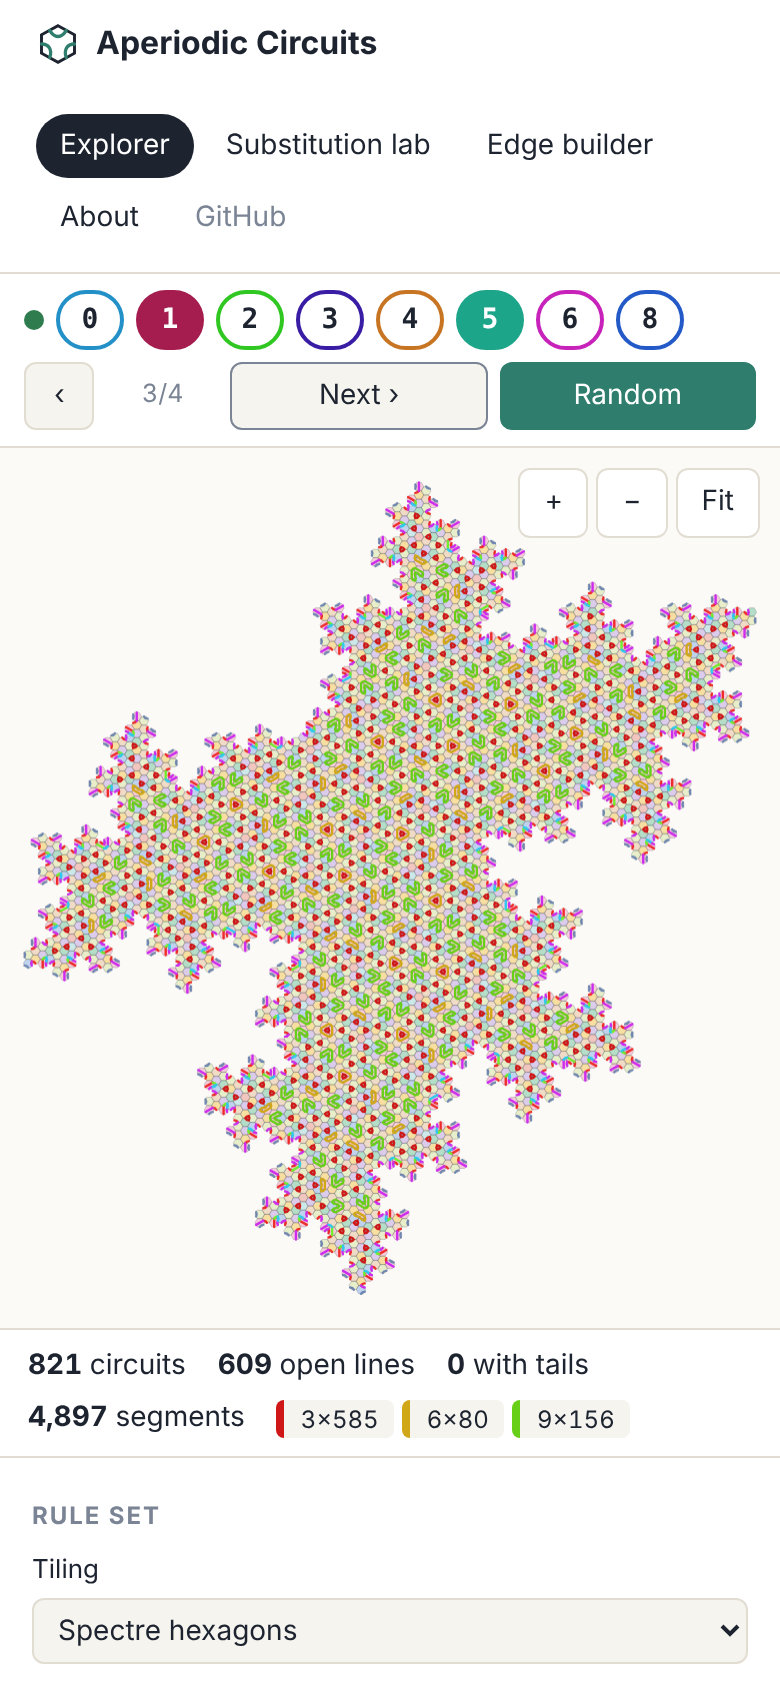
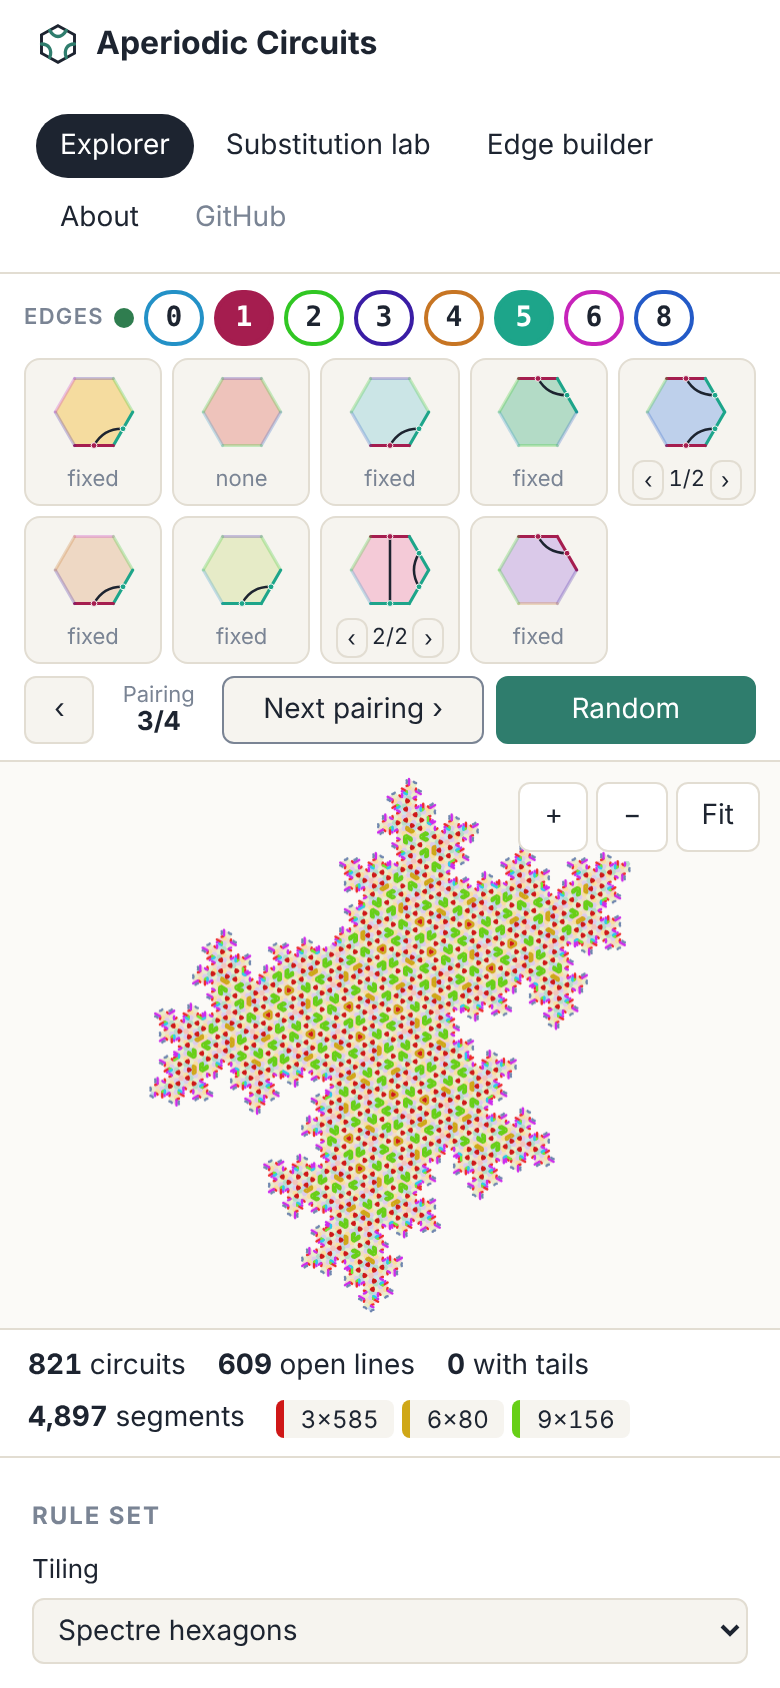
Explorer quick controls: show each tile's pairing next to the field
The panel by the field now carries the tile glyphs with their current
pairing and a per-tile stepper, and the stepper through every pairing of
the picked edges is labelled "Next pairing" so it reads as iterating
pairings, not edges. Tiles and edge chips wrap so they all fit on a phone.
Pairing counters are 1-based in the sidebar too.

Claude-Session: https://claude.ai/code/session_019Kut1nXEUxCdTxLUuuboJS

Changed region(s): [[0.0308, 0.154, 0.9846, 0.8009], [0.0308, 0.4005, 0.0615, 0.4313]]

diff --git a/src/pages/ExplorerPage.tsx b/src/pages/ExplorerPage.tsx
@@ -253,12 +253,16 @@ export function ExplorerPage({ route }: Props) {
   const quick = (
     <QuickControls
       className={`quick quick-${ui}`}
+      tiling={tiling}
       ruleSet={ruleSet}
       classes={classes}
       selection={selection}
       onToggle={toggleClass}
       tailFree={isTailFree}
       oddTypes={circuits.oddTypes}
+      counts={counts}
+      combo={combo}
+      onStepTile={stepCombo}
       index={comboIndex}
       total={totalCombos}
       onRandom={randomCombo}
@@ -576,7 +580,7 @@ export function ExplorerPage({ route }: Props) {
                         ‹
                       </button>
                       <span>
-                        {(combo[q.id] ?? 0) % choices}/{choices}
+                        {((combo[q.id] ?? 0) % choices) + 1}/{choices}
                       </span>
                       <button type="button" onClick={() => stepCombo(q.id, 1)} aria-label={`Next pairing for ${q.name}`}>
                         ›
@@ -718,23 +722,32 @@ function describeChase(c: { steps: number; status: ChaseStatus }): string {
 
 interface QuickProps {
   readonly className: string;
+  readonly tiling: Tiling;
   readonly ruleSet: RuleSet;
   readonly classes: readonly number[];
   readonly selection: ReadonlySet<number>;
   readonly onToggle: (c: number) => void;
   readonly tailFree: boolean;
   readonly oddTypes: readonly string[];
+  readonly counts: Record<string, number>;
+  readonly combo: Record<string, number>;
+  readonly onStepTile: (type: string, d: number) => void;
   readonly index: number;
   readonly total: number;
   readonly onRandom: () => void;
   readonly onStep: (d: number) => void;
 }
 
-/** The edge picker and combination stepper, kept next to the field so you can watch it change. */
-function QuickControls({ className: cls, ruleSet, classes, selection, onToggle, tailFree, oddTypes, index, total, onRandom, onStep }: QuickProps) {
+/**
+ * The edge picker, each tile's pairing, and a stepper through every pairing
+ * of the picked edges, kept by the field so you can watch it change.
+ */
+function QuickControls(props: QuickProps) {
+  const { className: cls, tiling, ruleSet, classes, selection, onToggle, tailFree, oddTypes, counts, combo, onStepTile, index, total, onRandom, onStep } = props;
   return (
     <div className={cls}>
       <div className="quick-edges">
+        <span className="quick-label">Edges</span>
         <span className={`quick-dot ${tailFree ? 'good' : 'bad'}`} title={tailFree ? 'Tail-free' : `Odd crossings on ${oddTypes.join(', ')}`} />
         {classes.map((c) => (
           <button
@@ -749,15 +762,47 @@ function QuickControls({ className: cls, ruleSet, classes, selection, onToggle, 
           </button>
         ))}
       </div>
+      <div className="quick-tiles">
+        {tiling.prototiles.map((q) => {
+          const n = counts[q.id];
+          const choices = n > MAX_ENUMERATED_CROSSINGS ? 1 : choiceCount(n);
+          return (
+            <div className="quick-tile" key={q.id} title={q.name}>
+              <TileGlyph tiling={tiling} type={q.id} ruleSet={ruleSet} selection={selection} comboIndex={combo[q.id] ?? 0} size={48} />
+              {n % 2 === 1 ? (
+                <div className="quick-tile-ctl bad">odd</div>
+              ) : choices > 1 ? (
+                <div className="quick-tile-ctl">
+                  <button type="button" onClick={() => onStepTile(q.id, -1)} aria-label={`Previous pairing for ${q.name}`}>
+                    ‹
+                  </button>
+                  <span>
+                    {((combo[q.id] ?? 0) % choices) + 1}/{choices}
+                  </span>
+                  <button type="button" onClick={() => onStepTile(q.id, 1)} aria-label={`Next pairing for ${q.name}`}>
+                    ›
+                  </button>
+                </div>
+              ) : (
+                <div className="quick-tile-ctl muted">{n === 0 ? 'none' : 'fixed'}</div>
+              )}
+            </div>
+          );
+        })}
+      </div>
       <div className="quick-combo">
-        <button type="button" onClick={() => onStep(-1)} disabled={total <= 1} aria-label="Previous combination">
+        <button type="button" onClick={() => onStep(-1)} disabled={total <= 1} aria-label="Previous pairing">
           ‹
         </button>
         <span className="quick-count">
-          {(index + 1).toLocaleString()}/{total.toLocaleString()}
+          Pairing
+          <br />
+          <b>
+            {(index + 1).toLocaleString()}/{total.toLocaleString()}
+          </b>
         </span>
         <button type="button" onClick={() => onStep(1)} disabled={total <= 1}>
-          Next ›
+          Next pairing ›
         </button>
         <button type="button" className="primary" onClick={onRandom} disabled={total <= 1}>
           Random

diff --git a/src/styles.css b/src/styles.css
@@ -948,13 +948,12 @@ h3.sub {
   color: var(--muted);
 }
 
-/* Explorer quick controls: the edge picker and combination stepper by the field. */
+/* Explorer quick controls: edges, each tile's pairing, and a pairing stepper by the field. */
 
 .quick {
   display: flex;
-  flex-wrap: wrap;
-  align-items: center;
-  gap: 6px 12px;
+  flex-direction: column;
+  gap: 6px;
   padding: 8px 12px;
   background: var(--panel);
   z-index: 2;
@@ -962,16 +961,23 @@ h3.sub {
 
 .quick-edges {
   display: flex;
+  flex-wrap: wrap;
   align-items: center;
-  gap: 6px;
-  min-width: 0;
-  overflow-x: auto;
-  scrollbar-width: none;
+  gap: 5px;
+}
+
+.quick-label {
+  flex-shrink: 0;
+  font-size: 11px;
+  font-weight: 600;
+  text-transform: uppercase;
+  letter-spacing: 0.06em;
+  color: var(--muted);
 }
 
 .quick-edges .chip {
-  flex-shrink: 0;
-  padding: 3px 9px;
+  min-width: 30px;
+  padding: 2px 8px;
 }
 
 .quick-dot {
@@ -989,22 +995,67 @@ h3.sub {
   background: var(--danger);
 }
 
+.quick-tiles {
+  display: grid;
+  grid-template-columns: repeat(auto-fill, minmax(62px, 1fr));
+  gap: 5px;
+}
+
+.quick-tile {
+  display: flex;
+  flex-direction: column;
+  align-items: center;
+  padding: 2px;
+  border: 1px solid var(--line);
+  border-radius: var(--radius);
+  background: var(--bg);
+}
+
+.quick-tile-ctl {
+  display: flex;
+  align-items: center;
+  gap: 2px;
+  height: 20px;
+  font-size: 11px;
+  font-variant-numeric: tabular-nums;
+}
+
+.quick-tile-ctl button {
+  padding: 0 5px;
+  line-height: 18px;
+}
+
 .quick-combo {
   display: flex;
   align-items: center;
   gap: 6px;
-  margin-left: auto;
+}
+
+.quick-combo button {
+  flex: 1;
+}
+
+.quick-combo button[aria-label] {
+  flex: 0 0 auto;
+  padding-left: 14px;
+  padding-right: 14px;
 }
 
 .quick-count {
-  min-width: 56px;
+  min-width: 52px;
   text-align: center;
-  font-size: 12.5px;
+  font-size: 11px;
+  line-height: 1.2;
   color: var(--muted);
   font-variant-numeric: tabular-nums;
 }
 
-/* a: a strip above the field. */
+.quick-count b {
+  font-size: 13px;
+  color: var(--ink);
+}
+
+/* a: a panel above the field. */
 .quick-a {
   border-bottom: 1px solid var(--line);
 }
@@ -1017,9 +1068,13 @@ h3.sub {
   right: 8px;
   border: 1px solid var(--line);
   border-radius: 12px;
-  background: color-mix(in srgb, var(--panel) 82%, transparent);
+  background: color-mix(in srgb, var(--panel) 80%, transparent);
   backdrop-filter: blur(6px);
   box-shadow: 0 2px 10px rgba(0, 0, 0, 0.08);
+}
+
+.quick-b .quick-tile {
+  background: color-mix(in srgb, var(--bg) 70%, transparent);
 }
 
 .stage.ui-b .canvas-tools {
@@ -1033,37 +1088,16 @@ h3.sub {
 
 /* c: a dock under the field, with thumb-sized buttons. */
 .quick-c {
-  flex-direction: column;
-  align-items: stretch;
   border-top: 1px solid var(--line);
 }
 
-.quick-c .quick-combo {
-  margin-left: 0;
-}
-
 .quick-c .quick-combo button {
-  flex: 1;
-  padding: 10px 0;
+  padding-top: 10px;
+  padding-bottom: 10px;
   font-size: 15px;
 }
 
-.quick-combo button[aria-label] {
-  flex: 0 0 auto;
-  padding-left: 14px;
-  padding-right: 14px;
-}
-
 @media (max-width: 820px) {
-  .quick-combo {
-    margin-left: 0;
-    width: 100%;
-  }
-
-  .quick-combo button {
-    flex: 1;
-  }
-
   /* The dock stays pinned to the bottom of the screen while the field is in view. */
   .quick-c {
     position: sticky;
